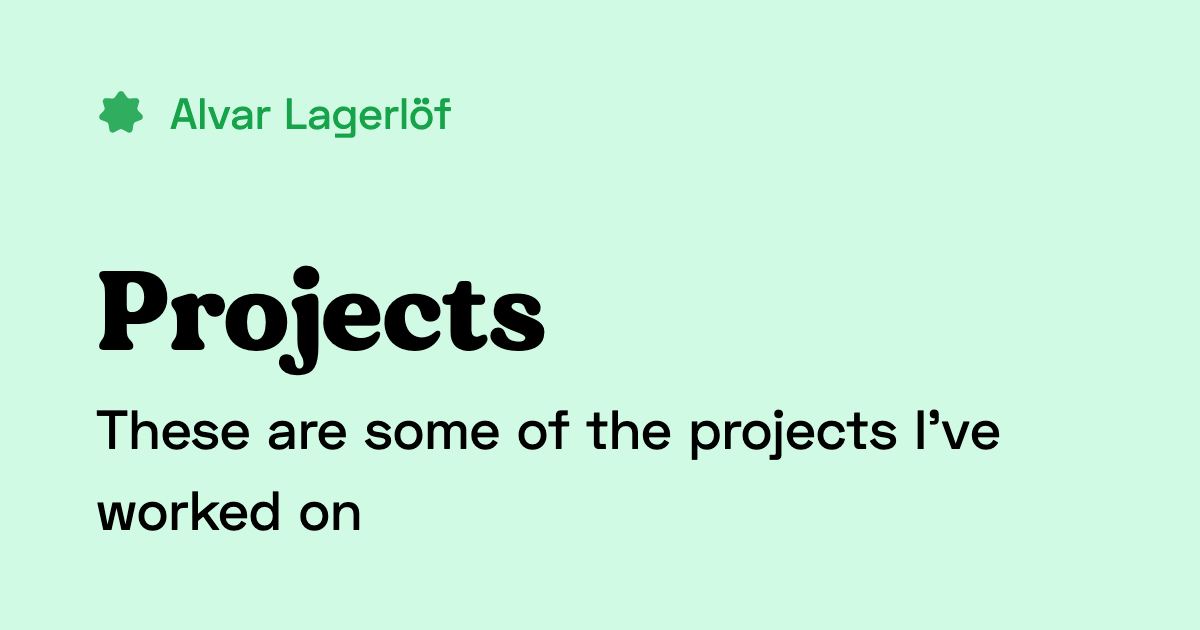
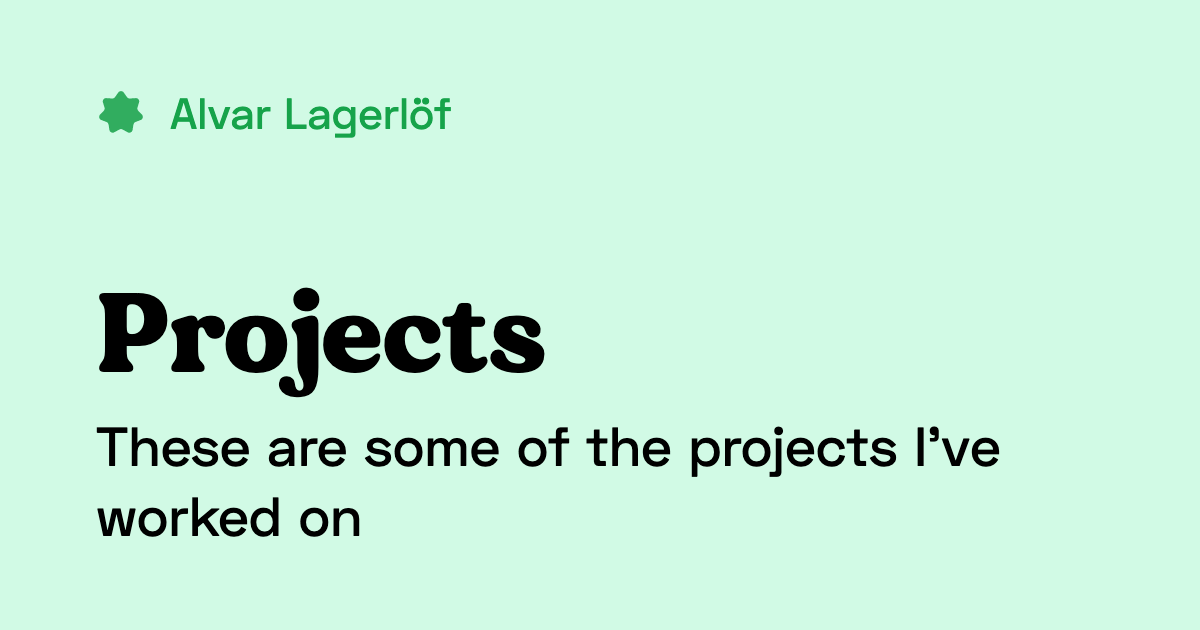
Line height in og:image

Changed region(s): [[0.0617, 0.6333, 0.8325, 0.754], [0.0617, 0.4222, 0.4625, 0.6333], [0.0617, 0.7841, 0.3083, 0.8746]]

diff --git a/pages/_ogimage/blogpost.tsx b/pages/_ogimage/blogpost.tsx
@@ -13,7 +13,7 @@ export default function Default() {
     <div className="w-[1200px] h-[630px] fixed top-0 left-0 bg-green-100 py-20 px-24 flex flex-col justify-between">
       <div className="space-y-2">
         <h1 className="font-heading text-[5.7em] leading-[1.2]">{title}</h1>
-        <h2 className="font-subheading text-[2.7em]">{description}</h2>
+        <h2 className="font-subheading text-[2.7em] leading-[1.4]">{description}</h2>
       </div>
 
       <div className="flex flex-row justify-between">

diff --git a/pages/_ogimage/default.tsx b/pages/_ogimage/default.tsx
@@ -20,7 +20,7 @@ export default function Default() {
 
       <div className="space-y-2">
         <h1 className="font-heading text-[7em] leading-[1.2]">{title}</h1>
-        <h2 className="font-subheading text-[3.4em]">{description}</h2>
+        <h2 className="font-subheading text-[3.4em] leading-[1.3]">{description}</h2>
       </div>
     </div>
   );
